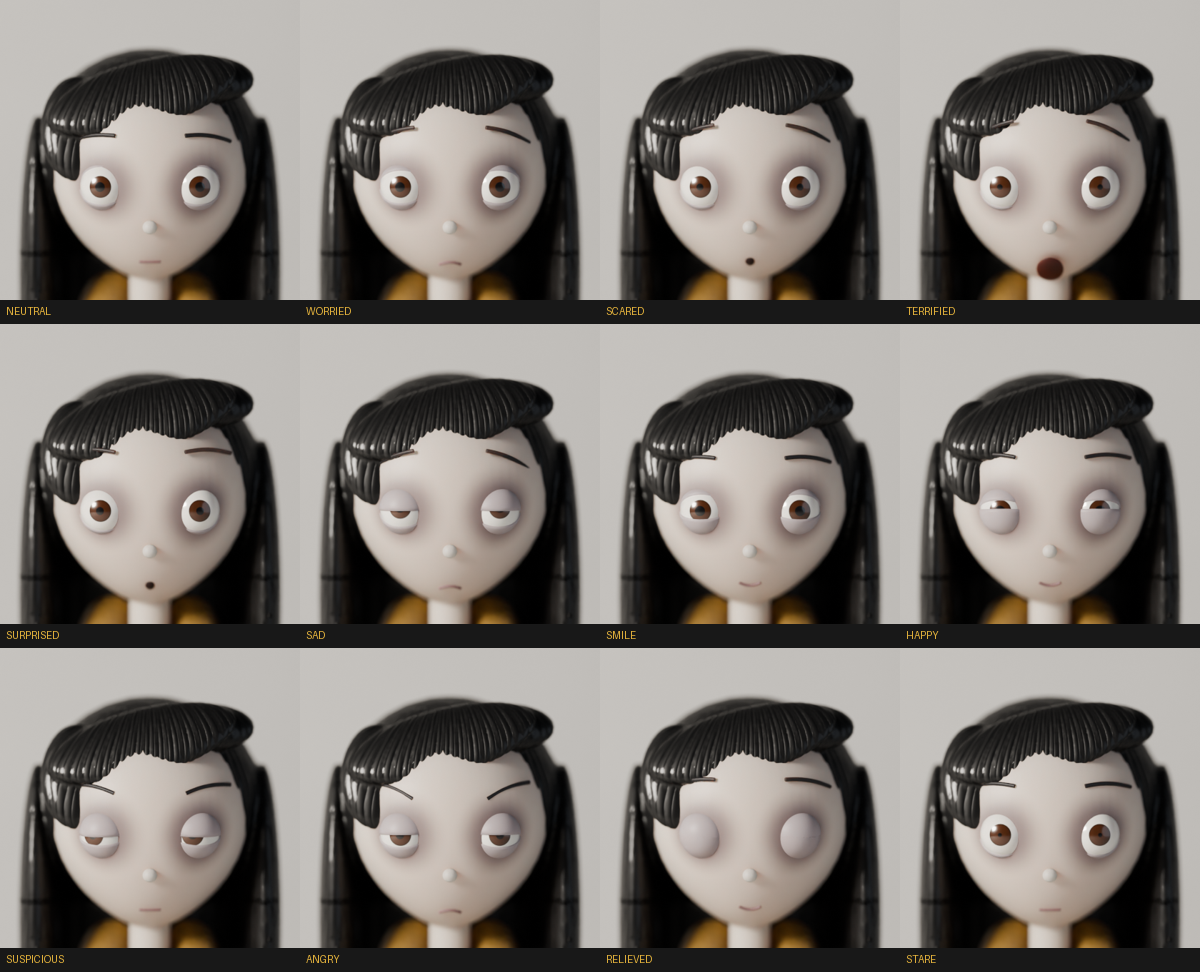
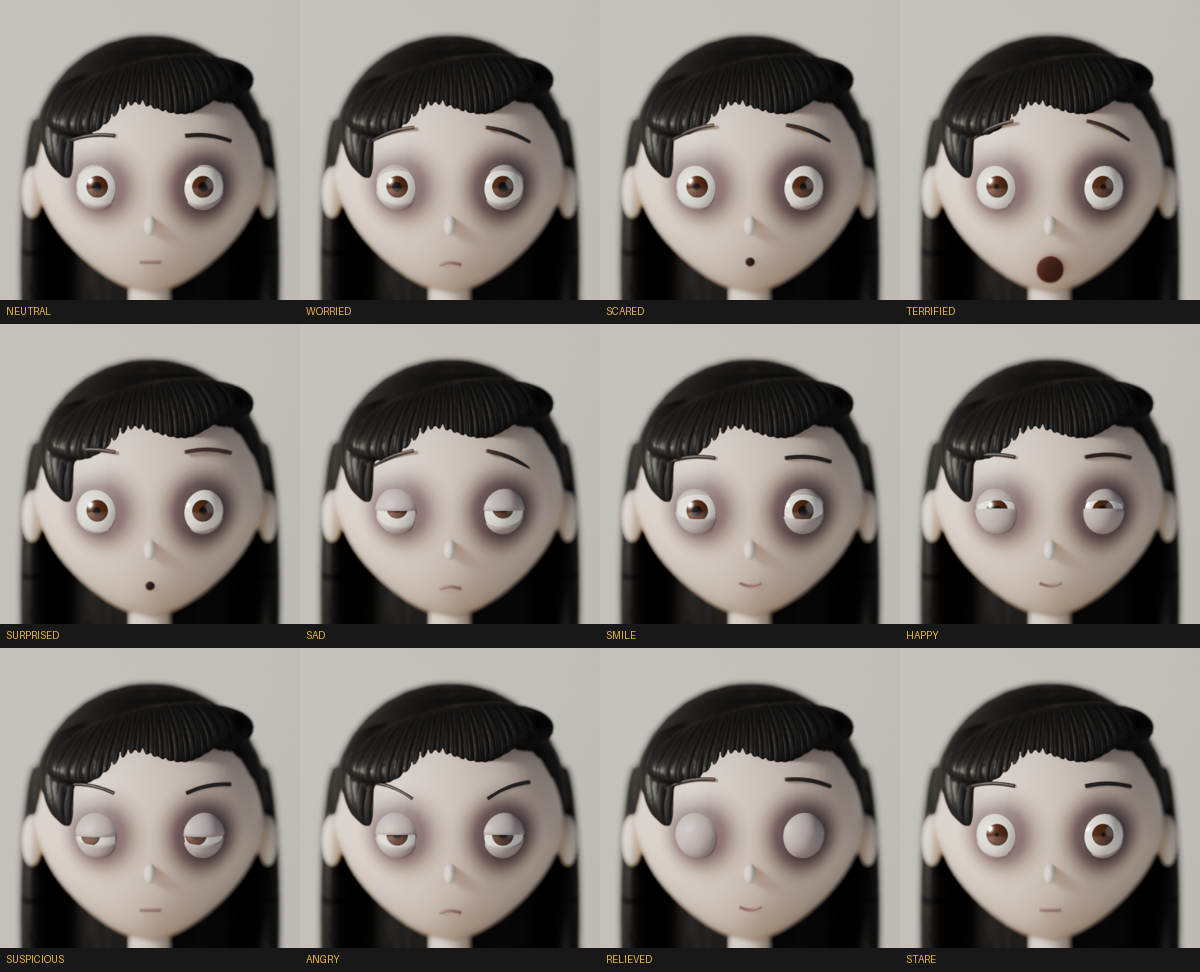
Audit Burton Haru against the Artlist sheet and fix the mismatches
Measured the build (flat part-colour renders, front/side/back) against the sheet's parts and compared silhouettes
at equal height. Fixed: face too narrow (hair over the cheeks, ears hidden), tall bowl collar and long neck, hoodie
too flat from the side, tiny hands, short sneakers, faint eye rings, bead nose, short drawstrings, a bald stripe at
the crown. Front-view chin 0.251 vs sheet 0.248, face width 0.240 vs 0.270 (was 0.161). Eyes stay smaller than the
sheet on purpose. Report and remaining gaps in measure/BURTON_AUDIT.md.

diff --git a/YTB/horror/blender/puppets/haru_burton.py b/YTB/horror/blender/puppets/haru_burton.py
@@ -23,12 +23,12 @@ importlib.reload(BM)
 from haru_puppet import Shape, piece, arc, soft_rest, S
 
 # ---------------------------------------------------------------- proportions (1.26 m units, x0.1 when built)
-HEAD_C, HEAD_R = Vector((0, 0, 1.1)), Vector((0.128, 0.12, 0.14))
+HEAD_C, HEAD_R = Vector((0, 0, 1.095)), Vector((0.142, 0.12, 0.15))  # broad round face, chin as low as the sheet (audit)
 SH = Vector((0.108, 0.01, 0.815)); A_REST = math.radians(9); L_UP, L_FORE = 0.19, 0.185
-HEM = 0.462
-EYE_X, EYE_Z, EYE_R = 0.058, 1.078, 0.03      # big Burton eyes, but a girl's, not an insect's
+HEM = 0.488
+EYE_X, EYE_Z, EYE_R = 0.062, 1.078, 0.03      # big Burton eyes, but a girl's, not an insect's
 
-PAL = {'skin': '#d5c5b9', 'lid': '#b9a8a8', 'socket': '#76687a', 'hoodie': '#a07c3c', 'pants': '#4d5153',
+PAL = {'skin': '#d5c5b9', 'lid': '#b9a8a8', 'socket': '#665468', 'hoodie': '#a07c3c', 'pants': '#4d5153',
        'canvas': '#e9e6df', 'sole': '#d9d6cf', 'hair': '#0b0b0c', 'brow': '#2a2526', 'lips': '#8f6a6a', 'mouth_in': '#2a1210'}
 
 EXPR = {  # upper lid (deg: -50 wide open .. 90 shut), lower lid (deg: 25 down .. -50 up), pupil, brow tilt (+ = inner up),
@@ -80,16 +80,16 @@ def hair_block(seed=4):
     forehead to her right. hair_grooves() then carves the strand grooves into it."""
     import random
     rnd = random.Random(seed); s = Shape()
-    s.ellipsoid((0, 0.03, 1.115), (0.148, 0.132, 0.14))                    # close over the skull, no bulge on top
+    s.ellipsoid((0, 0.038, 1.122), (0.153, 0.137, 0.152))                  # over the whole skull, set back so the face shows
     for sd in (1, -1):
-        s.ellipsoid((sd * 0.143, 0.02, 0.97), (0.024, 0.072, 0.2))         # flat sheets in front of the shoulders
+        s.ellipsoid((sd * 0.15, 0.06, 0.97), (0.02, 0.066, 0.2))          # flat sheets outside the cheeks, behind the ears
         for k in range(6):                                                # tapered locks at the ends
-            y = -0.04 + 0.017 * k
-            s.capsule((sd * 0.143, y, 0.86), (sd * (0.142 + rnd.uniform(-0.005, 0.005)), y + rnd.uniform(-0.004, 0.004),
+            y = 0.0 + 0.017 * k
+            s.capsule((sd * 0.15, y, 0.86), (sd * (0.149 + rnd.uniform(-0.005, 0.005)), y + rnd.uniform(-0.004, 0.004),
                                               0.755 + rnd.uniform(-0.02, 0.02)), 0.011, 0.003)
-    s.ellipsoid((0, 0.075, 0.95), (0.15, 0.05, 0.22))                      # one flat sheet down the back
+    s.ellipsoid((0, 0.08, 0.95), (0.142, 0.05, 0.22))                      # one flat sheet down the back
     for k in range(13):
-        x = -0.135 + 0.0225 * k
+        x = -0.128 + 0.0213 * k
         s.capsule((x, 0.08, 0.82), (x + rnd.uniform(-0.006, 0.006), 0.084, 0.705 + rnd.uniform(-0.02, 0.02)), 0.014, 0.0035)
     s.ellipsoid((-0.01, -0.074, 1.19), (0.12, 0.018, 0.05), rot=(math.radians(-32), math.radians(-15), 0))  # fringe, flat on the forehead
     s.ellipsoid((-0.09, -0.06, 1.15), (0.045, 0.02, 0.07), rot=(math.radians(-20), 0, 0))
@@ -169,7 +169,7 @@ class HaruBurton(HP.Haru):
     def _materials(self):
         sockets = [tuple(eye_frame(s)[2] * S) for s in (1, -1)]
         n = self.name
-        return {'face': BM.silicone(f'{n}_face', PAL['skin'], sockets=sockets, socket_color=PAL['socket'], socket_r=EYE_R * 1.45 * S),
+        return {'face': BM.silicone(f'{n}_face', PAL['skin'], sockets=sockets, socket_color=PAL['socket'], socket_r=EYE_R * 1.7 * S),
                 'skin': BM.silicone(f'{n}_skin', PAL['skin']), 'lid': BM.lid(f'{n}_lid', PAL['lid']),
                 'hoodie': BM.fabric(f'{n}_hoodie', PAL['hoodie'], 'knit'), 'pants': BM.fabric(f'{n}_pants', PAL['pants'], 'weave'),
                 'canvas': BM.fabric(f'{n}_canvas', PAL['canvas'], 'weave', fuzz=0.5), 'sole': BM.silicone(f'{n}_sole', PAL['sole']),
@@ -181,17 +181,17 @@ class HaruBurton(HP.Haru):
     def _build(self):
         M, co = self.M, self.coll
         s = Shape()                                                              # oversized knitted hoodie
-        s.ellipsoid((0, 0.01, 0.73), (0.118, 0.076, 0.13)); s.ellipsoid((0, 0, 0.6), (0.135, 0.083, 0.13))
-        s.ellipsoid((0, 0, HEM + 0.07), (0.142, 0.085, 0.06))
-        s.ring((0, 0, HEM + 0.017), 0.118, 0.07, 0.019, 60)                      # ribbed hem band, gathered under the body
-        s.ring((0, 0.016, 0.912), 0.06, 0.054, 0.034, 28, tilt=0.95)              # hood opening: a shallow V at the front
-        s.ellipsoid((0, 0.072, 0.86), (0.1, 0.038, 0.09))                        # hood on the back
-        s.ellipsoid((0, -0.078, 0.565), (0.08, 0.015, 0.05))                     # kangaroo pocket
-        for side in (1, -1): s.ball((side * 0.092, 0.01, 0.785), 0.052)
+        s.ellipsoid((0, 0.01, 0.73), (0.118, 0.098, 0.13)); s.ellipsoid((0, 0, 0.6), (0.135, 0.106, 0.13))
+        s.ellipsoid((0, 0, HEM + 0.07), (0.142, 0.106, 0.06))
+        s.ring((0, 0, HEM + 0.017), 0.118, 0.09, 0.019, 60)                      # ribbed hem band, gathered under the body
+        s.ring((0, 0.02, 0.876), 0.072, 0.062, 0.025, 32, tilt=0.55)                # hood opening: low, shallow V on the shoulders
+        s.ellipsoid((0, 0.078, 0.85), (0.105, 0.034, 0.09))                       # hood lying flat on the back
+        s.ellipsoid((0, -0.1, 0.575), (0.08, 0.015, 0.05))                       # kangaroo pocket
+        for side in (1, -1): s.ball((side * 0.094, 0.01, 0.8), 0.058)      # shoulders fill up under the hood
         self._attach(piece('hoodie', s, M['hoodie'], 'top', co, cuts=[(HEM, 'above')], smooth=8, lump=0.00008), 'spine')
         s = Shape()
         for side in (1, -1):
-            s.capsule((side * 0.022, -0.056, 0.875), (side * 0.026, -0.082, 0.79), 0.005); s.ball((side * 0.026, -0.082, 0.785), 0.0075)
+            s.capsule((side * 0.024, -0.066, 0.885), (side * 0.03, -0.108, 0.725), 0.005); s.ball((side * 0.03, -0.108, 0.72), 0.0075)
         self._attach(piece('drawstrings', s, M['hoodie'], 'top', co, voxel=0.0014, smooth=3, lump=0), 'chest', False)
         self._attach(piece('pelvis', Shape().ellipsoid((0, 0, 0.54), (0.115, 0.078, 0.065)), M['pants'], 'pants', co,
                            cuts=[(HEM + 0.04, 'below')], lump=0), 'hips')
@@ -199,7 +199,7 @@ class HaruBurton(HP.Haru):
                            voxel=0.0025, smooth=4, lump=0), 'neck')
         head = Shape().ellipsoid(HEAD_C, HEAD_R, seg=64)
         taper_head(head.bm)                                                       # one smooth egg, narrow at the chin
-        for side in (1, -1): head.ellipsoid((side * 0.124, 0.005, 1.07), (0.014, 0.022, 0.03))    # ears
+        for side in (1, -1): head.ellipsoid((side * 0.148, -0.006, 1.07), (0.012, 0.024, 0.032))  # ears, peeking out of the hair
         self._attach(piece('head', head, M['face'], 'skin', co, voxel=0.0025, smooth=5, lump=0), 'head')
         for side, tag in ((1, 'L'), (-1, 'R')):
             d = Vector((side * math.sin(A_REST), 0, -math.cos(A_REST)))
@@ -212,25 +212,26 @@ class HaruBurton(HP.Haru):
             self._attach(piece('sleeve_lo.' + tag, s, M['hoodie'], 'top', co, lump=0.00008), 'forearm.' + tag)
             out = Vector((math.cos(A_REST), 0, math.sin(A_REST))) if side > 0 else Vector((-math.cos(A_REST), 0, math.sin(A_REST)))
             Mx = Matrix((out, Vector((0, -1, 0)), -d)).transposed()
+            Mx = Matrix.Rotation(math.radians(-side * 40), 3, d) @ Mx     # turned in: backs of the hands show from the front
             P = lambda u, v, w: wr + Mx @ Vector((u, v, w))
-            s = Shape().capsule(P(0, 0, 0.02), P(0, 0, -0.01), 0.016, 0.015).ellipsoid(P(0, 0, -0.03), (0.014, 0.026, 0.03), rot=Mx)
-            for vy, ln in ((-0.018, 0.036), (-0.006, 0.044), (0.006, 0.042), (0.018, 0.034)):      # spindly fingers
-                s.capsule(P(0.001, vy, -0.052), P(-0.006, vy * 1.08, -0.052 - ln), 0.0058, 0.0048, 16)
-            s.capsule(P(-0.006, -0.024, -0.022), P(-0.016, -0.034, -0.05), 0.0062, 0.0052, 16)
+            s = Shape().capsule(P(0, 0, 0.02), P(0, 0, -0.012), 0.02, 0.019).ellipsoid(P(0, 0, -0.037), (0.017, 0.036, 0.04), rot=Mx)
+            for vy, ln in ((-0.025, 0.048), (-0.0085, 0.06), (0.0085, 0.057), (0.025, 0.046)):     # long spindly fingers
+                s.capsule(P(0.001, vy, -0.07), P(-0.008, vy * 1.08, -0.07 - ln), 0.0075, 0.006, 16)
+            s.capsule(P(-0.007, -0.033, -0.03), P(-0.02, -0.046, -0.068), 0.0082, 0.0068, 16)
             self._attach(piece('hand.' + tag, s, M['skin'], 'skin', co, voxel=0.0011, smooth=4, lump=0), 'hand.' + tag)
             hip, knee, ank = Vector((side * 0.05, 0, 0.52)), Vector((side * 0.05, 0, 0.30)), Vector((side * 0.05, 0.005, 0.09))
             self._attach(piece('thigh.' + tag, Shape().capsule(hip, knee, 0.042, 0.038), M['pants'], 'pants', co, lump=0.00005), 'thigh.' + tag)
             s = Shape().capsule(knee, ank, 0.038, 0.035).fold(knee, ank, 0.86, 0.035, 0.011, 0.008, seed=30 + side)
             self._attach(piece('shin.' + tag, s, M['pants'], 'pants', co, cuts=[(0.1, 'above')], lump=0.00005), 'shin.' + tag)
             x = side * 0.052
-            s = Shape().ellipsoid((x, -0.028, 0.042), (0.042, 0.082, 0.04)).ellipsoid((x, -0.072, 0.032), (0.04, 0.045, 0.03))
+            s = Shape().ellipsoid((x, -0.036, 0.042), (0.044, 0.11, 0.04)).ellipsoid((x, -0.1, 0.032), (0.042, 0.055, 0.03))
             s.capsule((x, 0.005, 0.055), (x, 0.005, 0.082), 0.036)
             self._attach(piece('shoe.' + tag, s, M['canvas'], 'shoes', co, voxel=0.0025, smooth=5, cuts=[(0.016, 'above')], lump=0), 'foot.' + tag)
-            self._attach(piece('sole.' + tag, Shape().ellipsoid((x, -0.03, 0.013), (0.047, 0.093, 0.014)), M['sole'], 'shoes', co,
+            self._attach(piece('sole.' + tag, Shape().ellipsoid((x, -0.04, 0.013), (0.049, 0.124, 0.014)), M['sole'], 'shoes', co,
                                voxel=0.0025, smooth=4, cuts=[(0.0, 'above')], lump=0), 'foot.' + tag)
             s = Shape()
             for k in range(3):                                                    # laces across the tongue
-                y = -0.03 - 0.016 * k; z = 0.078 - 0.008 * k
+                y = -0.04 - 0.018 * k; z = 0.078 - 0.008 * k
                 s.capsule((x - 0.02, y, z), (x + 0.02, y, z), 0.0035)
             self._attach(piece('laces.' + tag, s, M['canvas'], 'shoes', co, voxel=0.001, smooth=2, lump=0), 'foot.' + tag, False)
 
@@ -282,8 +283,8 @@ class HaruBurton(HP.Haru):
             self._put(arc(f'brow_arc.{tag}', [on_face(side * x_, 1.136 + 0.004 * (1 - ((x_ - 0.07) / 0.028) ** 2), 0.0006)[0]
                                               for x_ in (0.042, 0.056, 0.07, 0.084, 0.098)], 0.0026, M['brow'], co), h)
             self.brows.append((h, side, bc))
-        p, n = on_face(0, 1.03, 0.003)
-        self._attach(piece('nose', Shape().ellipsoid(p, (0.009, 0.008, 0.0085), seg=24), M['skin'], 'skin', co,
+        p, n = on_face(0, 1.032, 0.004)
+        self._attach(piece('nose', Shape().ellipsoid(p, (0.0075, 0.011, 0.013), rot=(math.radians(-35), 0, 0), seg=24), M['skin'], 'skin', co,
                            voxel=0.0007, smooth=3, lump=0), 'head', False)
         mc, mn = on_face(0, 0.986, 0.0005); R = mn.to_track_quat('-Y', 'Z').to_matrix()
         def mline(nm, curve):

diff --git a/YTB/horror/blender/measure/burton_overlay.py b/YTB/horror/blender/measure/burton_overlay.py
@@ -1,0 +1,34 @@
+"""Overlay the Burton sheet's part map and our ID render for one view, scaled to the same figure height:
+[sheet parts | ours | blend]. uv run --no-project --with pillow --with numpy python -I burton_overlay.py SHEET ID.png VIEW OUT.png"""
+import sys, os
+import numpy as np
+from PIL import Image
+sys.path.insert(0, os.path.dirname(os.path.abspath(__file__)))
+sys.path.insert(0, os.path.join(os.path.dirname(os.path.abspath(__file__)), '..', '..', '..', '..', '.claude', 'skills',
+                                'clay-character', 'scripts'))
+import burton_measure as BMs
+import measure as M
+
+
+def crop_parts(m, fg, view):
+    x0, x1 = M.views(fg)[view]
+    pm = np.full(fg.shape + (3,), 24, np.uint8)
+    for k in M.PARTS: pm[m[k]] = M.ID[k]
+    rows = np.where(fg[:, x0:x1].sum(1) > 3)[0]
+    return pm[rows.min():rows.max() + 1, max(0, x0 - 20):x1 + 20]
+
+
+sheet = np.asarray(Image.open(sys.argv[1]).convert('RGB')).astype(int)
+ours = np.asarray(Image.open(sys.argv[2]).convert('RGB')).astype(int)
+view = int(sys.argv[3])
+a = crop_parts(*BMs.classify(sheet), view)
+b = crop_parts(*M.classify_ids(ours), 0)
+H = 900
+A = Image.fromarray(a).resize((round(a.shape[1] * H / a.shape[0]), H), Image.NEAREST)
+Bi = Image.fromarray(b).resize((round(b.shape[1] * H / b.shape[0]), H), Image.NEAREST)
+W = max(A.width, Bi.width)
+pad = lambda im: (lambda c: (c.paste(im, ((W - im.width) // 2, 0)), c)[1])(Image.new('RGB', (W, H), (24, 24, 24)))
+A2, B2 = pad(A), pad(Bi)
+out = Image.new('RGB', (3 * W + 20, H), (0, 0, 0))
+out.paste(A2, (0, 0)); out.paste(B2, (W + 10, 0)); out.paste(Image.blend(A2, B2, 0.5), (2 * W + 20, 0))
+out.save(sys.argv[4]); print(sys.argv[4])

diff --git a/YTB/horror/blender/puppets/burton_materials.py b/YTB/horror/blender/puppets/burton_materials.py
@@ -89,7 +89,7 @@ def silicone(name, color, sockets=(), socket_color='#7a6a78', socket_r=0.0055):
     for sc in sockets:                                                        # dark rings around the eyes
         d = g.vop('DISTANCE', g.V, tuple(sc)).outputs['Value']
         ring = g.op('SUBTRACT', 1.0, g.smooth(d, socket_r * 0.55, socket_r * 1.35))
-        col = g.mix(g.op('MULTIPLY', ring, 0.75), col, _lin(socket_color), 'MULTIPLY')
+        col = g.mix(g.op('MULTIPLY', ring, 0.9), col, _lin(socket_color), 'MULTIPLY')
     g.L.new(col, b.inputs['Base Color'])
     h = g.op('MULTIPLY_ADD', g.tex('ShaderNodeTexNoise', 3500, Detail=1).outputs['Fac'], 0.5,
              g.tex('ShaderNodeTexNoise', 220, Detail=2).outputs['Fac'])     # micro texture + soft sculpt waviness
@@ -133,7 +133,7 @@ def hair(name, color='#141517', grooves=110):
     """sculpted, glossy hair: fine wavy strand grooves running down from the crown (angle round the z axis)"""
     g = _G(name); b = g.b; c = _lin(color)
     b.inputs['Base Color'].default_value = (*c, 1)
-    b.inputs['Roughness'].default_value = 0.42; b.inputs['Specular IOR Level'].default_value = 0.32
+    b.inputs['Roughness'].default_value = 0.45; b.inputs['Specular IOR Level'].default_value = 0.2
     b.inputs['Coat Weight'].default_value = 0.12; b.inputs['Coat Roughness'].default_value = 0.3
     gr = g.N.new('ShaderNodeTexGradient'); gr.gradient_type = 'RADIAL'; g.L.new(g.V, gr.inputs['Vector'])
     warp = g.tex('ShaderNodeTexNoise', 35, Detail=2)

diff --git a/YTB/horror/blender/measure/burton_measure.py b/YTB/horror/blender/measure/burton_measure.py
@@ -25,8 +25,12 @@ def classify(im):
     warm_light = fg & (lum > 105) & (r >= b + 4) & (sat < 70) & ~top
     neutral_light = fg & (lum > 150) & (sat < 35) & ~top
     dark = fg & (lum < 120) & (sat < 32) & ~top
-    leg_rows = np.where((dark & (yy > hem)).sum(1) > 60)[0]  # rows with trouser legs (5 figures x 2 legs)
-    shoe_top = int(leg_rows.max()) + 1 if len(leg_rows) else H
+    # shoes start where, going down the legs, light pixels outnumber the dark trouser pixels
+    light_any = (neutral_light | warm_light)
+    shoe_top = H
+    for y in range(hem + 120, H):
+        nl, nd = int(light_any[y].sum()), int(dark[y].sum())
+        if nl > 40 and nl > nd: shoe_top = y; break
     m = {'top': top}
     m['hair'] = dark & (yy < hem - 10)                        # black hair and its grey highlights, above the hem
     m['pants'] = dark & (yy > hem - 10) & (yy < shoe_top + 6)

diff --git a/YTB/horror/blender/measure/BURTON_AUDIT.md b/YTB/horror/blender/measure/BURTON_AUDIT.md
@@ -1,0 +1,51 @@
+# Audit: Blender Burton Haru vs the Artlist sheet (2026-11-24)
+
+Reference: `YTB/channel_art/burton_turnaround.png`. Build: `puppets/haru_burton.py`.
+Method: the sheet is split into parts by colour (`burton_measure.py`; hair, skin, hoodie, trousers, shoes); the
+build is rendered with flat part colours, orthographic, front / side / back (`scenes/haru_sheet.py --mode id
+--puppet burton`) and measured with the clay-character skill's `measure.py`. Landmarks are fractions of her height
+from the top of the hair (0) to the soles (1). Silhouette overlays at equal height: `burton_overlay_{0,2,4}.png`.
+Full numbers: `burton_audit_numbers.txt`.
+
+## Front view, sheet vs build
+
+| | sheet | first build | after the fixes |
+|---|---|---|---|
+| chin (where skin meets the hood) | 0.248 | 0.276 | **0.251** |
+| hoodie hem | 0.637 | 0.654 | 0.659 (cuffs hang a little lower than the sheet's) |
+| trouser hem | 0.912 | 0.921 | 0.922 |
+| shoes top | 0.916 | 0.922 | 0.924 |
+| hair width | 0.254 | 0.260 | 0.263 |
+| face width (with ears) | 0.270 | 0.161 | **0.240** |
+| hoodie width at the middle | 0.278 | 0.275 | 0.274 |
+| hoodie width at the hem | 0.304 | 0.317 | 0.313 |
+| trousers width | 0.142 | 0.133 | 0.131 |
+
+Hands end at 0.71 on the sheet (read by eye; the script counts her bare ankles as skin) and 0.726 on the build.
+Front hair ends at about 0.39 on both.
+
+## What the audit found, and what was fixed
+
+1. **Face too narrow, ears hidden.** The side hair sat over her cheeks. Fixed: wider head (x radius 0.128 -> 0.142),
+   hair cap and side sheets set back and outside the cheeks, ears moved out so they peek through the hair.
+2. **Tall bowl collar, long neck.** Fixed: the hood opening is a low, shallow V resting on the shoulders; shoulders
+   filled up under it; head lengthened so the chin sits where the sheet's does (0.251 vs 0.248).
+3. **Hoodie too flat from the side.** Fixed: about 6 cm deeper (in her 1.26 m units); side-view middle depth 0.124 -> 0.153 (sheet 0.170).
+4. **Hands tiny and claw-like.** Fixed: bigger palms, long spindly fingers, turned in so the backs show from the front.
+5. **Sneakers too short.** Fixed: about 35% longer.
+6. **Faint eye rings, bead nose.** Fixed: darker, wider grey-purple rings; a small soft pointed nose.
+7. **Short drawstrings, hem slightly low.** Fixed: drawstrings hang to the chest with knots; hem raised.
+8. **Bald stripe at the crown** after the head was lengthened. Fixed: bigger hair cap.
+
+## Deliberate differences
+
+- **Eyes about 25% smaller than the sheet's**, at your request ("too big, looks like a cockroach").
+- **Mechanical face**: eyelids and pupils act the expressions (sheet shows one neutral face).
+
+## Still different (next pass if wanted)
+
+- Hood shape: the sheet's hood is a draped fabric V with folds; ours is a smooth rolled collar.
+- Sneakers: still soft rounded shapes, not crisp canvas sneakers with toe caps and stitched soles.
+- Side view: the face shows a little less past the hair than on the sheet (face width 0.087 vs 0.129).
+- Sleeve cuffs hang about 2% lower than the sheet's.
+- A faint line where the crown hair meets the shoulder hair can show in some angles.
